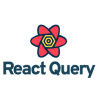
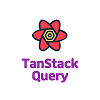
기술스택 추가 및 정보 수정

Changed region(s): [[0.03, 0.18, 0.96, 0.84]]

diff --git a/src/dummyData/experience.js b/src/dummyData/experience.js
@@ -1,9 +1,15 @@
 export const experience_dummyData = [
    {
-      period: '2023.03 - 재직중',
+      period: '2023.03 - 2026.03',
       title: '청오엔에프 (도미노피자)',
       smallTitle: '플랫폼 개선팀 | 프론트엔드',
-      detail: ['- 수정필요']
+      detail: [
+         '- Next.js, TypeScript 기반 신규 플랫폼 서비스 개발 및 핵심 기능 구현',
+         '- 로그인/회원가입/본인인증 등 사용자 인증 전반 플로우 설계 및 구현',
+         '- WebSocket(Stomp) 기반 실시간 주문 상태 및 알림 UI 동기화 구조 설계',
+         '- TanStack Query를 활용한 서버 상태 관리 및 데이터 캐싱 최적화',
+         '- Lighthouse 성능 최적화를 통해 웹 성능 지표 개선 (60 → 90 이상)'
+      ]
    },
    {
       period: '2022.06 - 2022.12',
@@ -29,7 +35,7 @@ export const experience_dummyData = [
       ]
    },
    {
-      period: '2021.08 - 재학중',
+      period: '2021.08 - 2025.08',
       title: '서울디지털대학교',
       detail: ['- 소프트웨어공학과']
    },

diff --git a/src/dummyData/stack.js b/src/dummyData/stack.js
@@ -1,5 +1,7 @@
 import react from '../assets/image/stack/react.png';
 import next from '../assets/image/stack/next.png';
+import vue from '../assets/image/stack/vue.png';
+import nuxt from '../assets/image/stack/nuxt.png';
 import javascript from '../assets/image/stack/javascript.png';
 import typescript from '../assets/image/stack/typescript.png';
 import es6 from '../assets/image/stack/es6.png';
@@ -20,6 +22,8 @@ import figma from '../assets/image/stack/figma.png';
 export const stack_dummyData = [
    { stack: 'React', src: { react }, srcName: 'react' },
    { stack: 'Next.js', src: { next }, srcName: 'next' },
+   { stack: 'Vue3', src: { vue }, srcName: 'vue' },
+   { stack: 'Nuxt.js', src: { nuxt }, srcName: 'nuxt' },
    { stack: 'Zustand', src: { zustand }, srcName: 'zustand' },
    { stack: 'Recoil', src: { recoil }, srcName: 'recoil' },
    { stack: 'Redux', src: { redux }, srcName: 'redux' },
